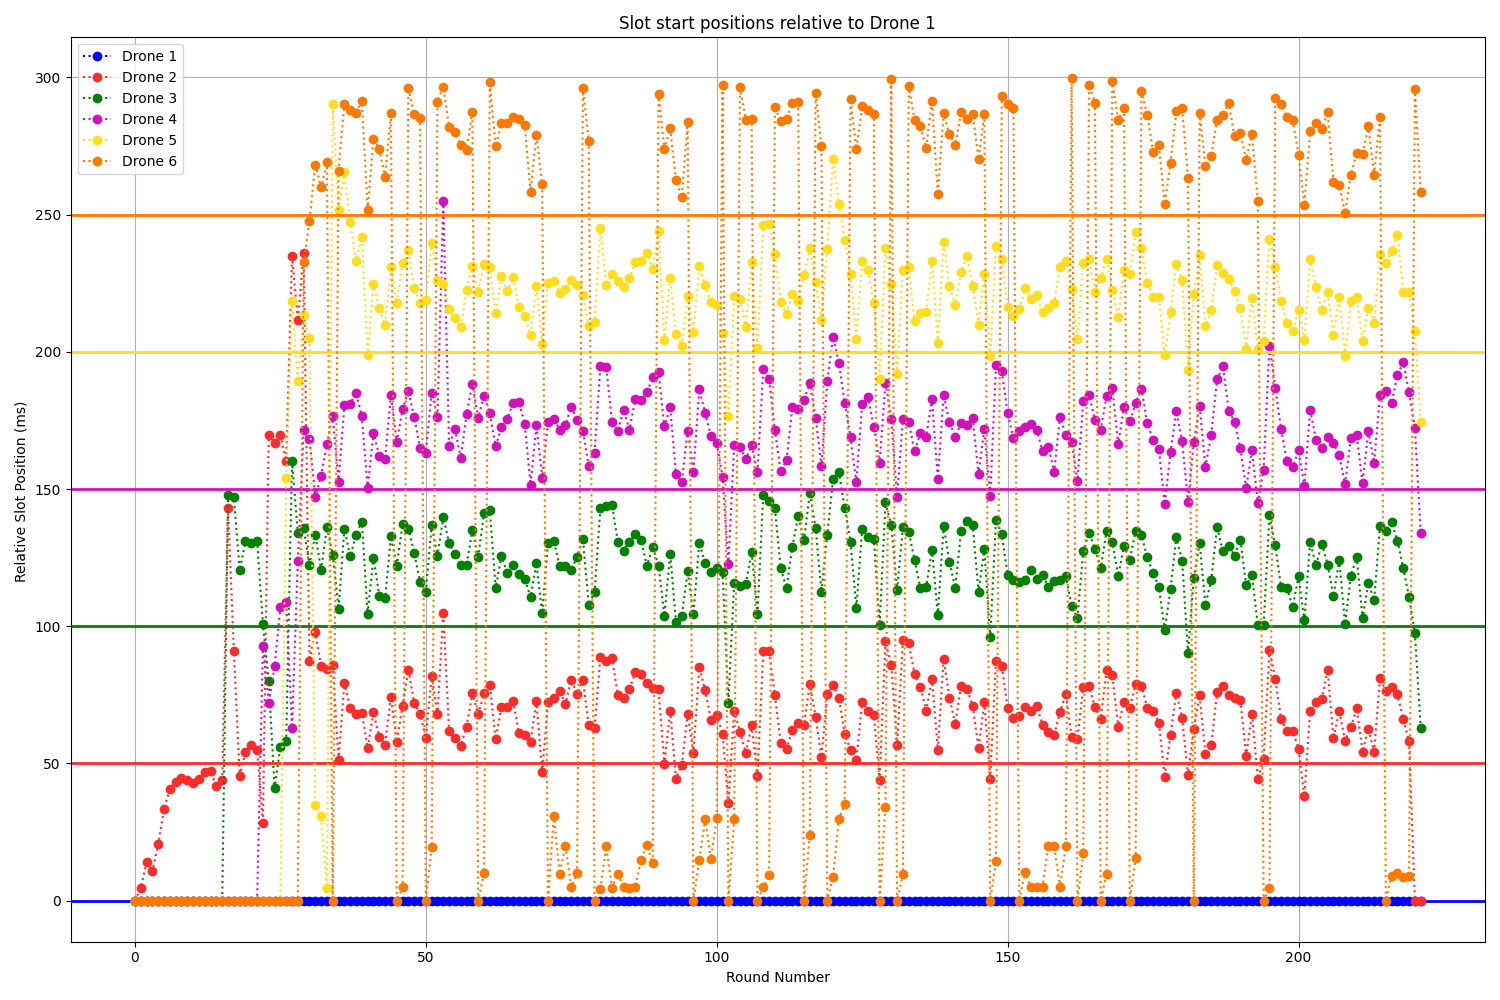
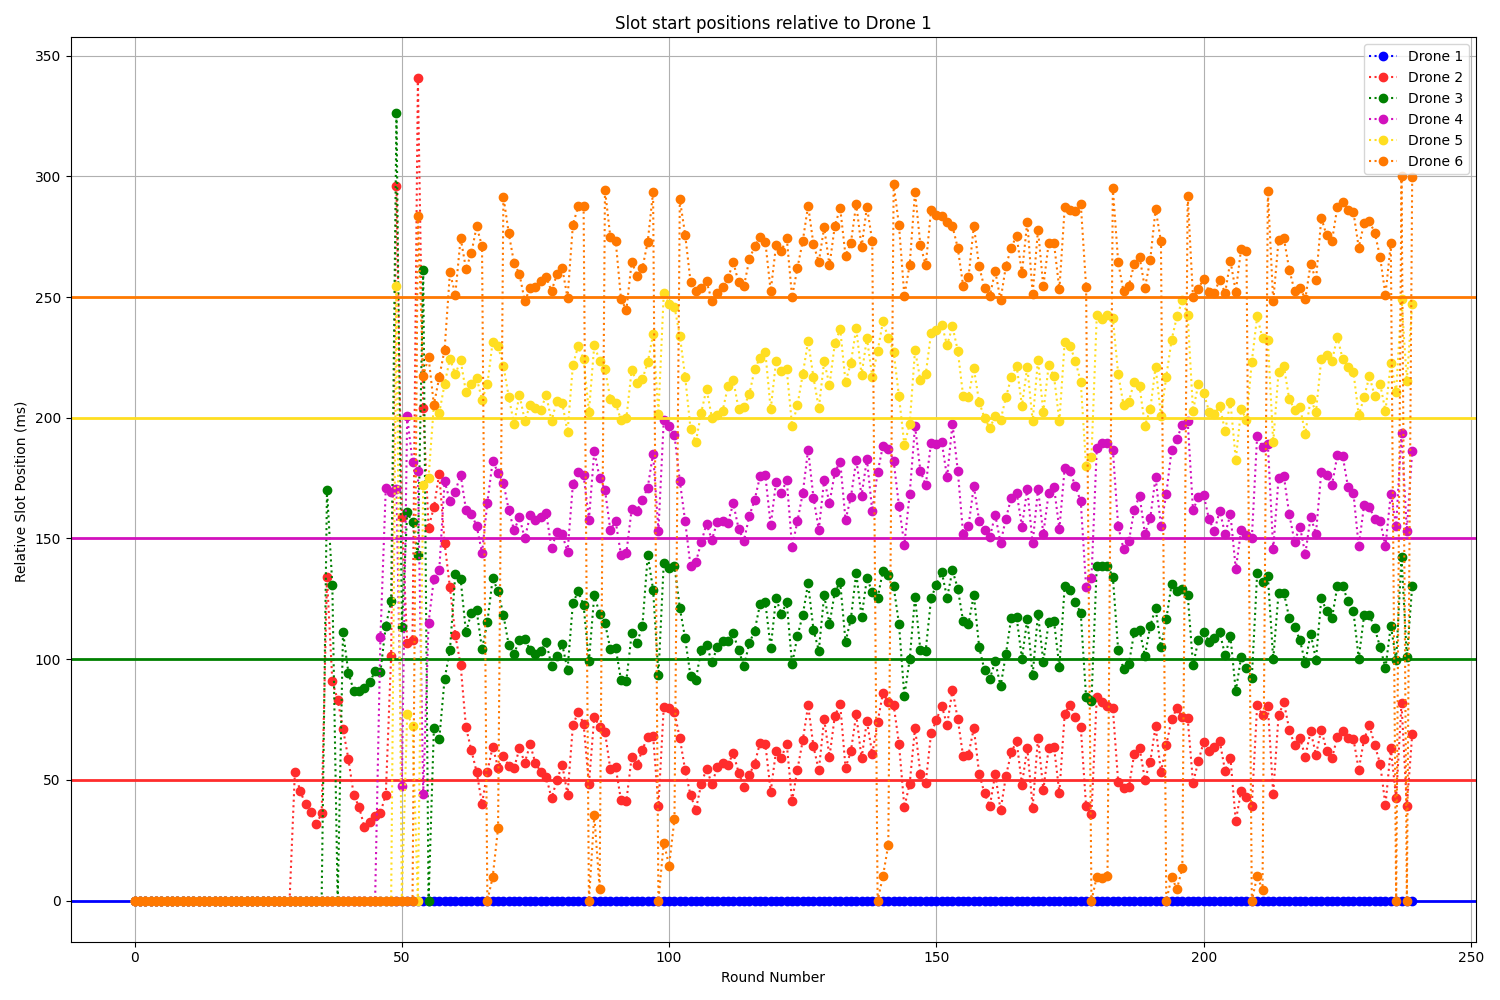
New charts for star test

diff --git a/docs/logs/generateReport.py b/docs/logs/generateReport.py
@@ -6,7 +6,7 @@ import numpy as np
 import matplotlib.ticker as mticker
 
 SLOT_LEN_MICRO = 1000000
-TEST_NAME = 'tree-topology'
+TEST_NAME = 'star-topology'
 TEST_TYPE = 'tdma'
 NODES = ['drone1','drone2', 'drone3', 'drone4', 'drone5', 'drone6']
 PATH = './' + TEST_NAME + '/' + TEST_TYPE + '/'

diff --git a/docs/logs/processTrace.py b/docs/logs/processTrace.py
@@ -4,7 +4,7 @@ import math
 import matplotlib.pyplot as plt
 import os
 
-TEST_NAME = "tree-topology"
+TEST_NAME = "star-topology"
 TEST_TYPE = "tdma"
 TRACE_NAME = "trace-6nodes.pcapng.gz"
 
